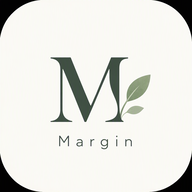
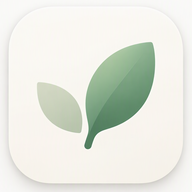
アプリアイコンをLeafデザインに変更

diff --git a/index.html b/index.html
@@ -5,6 +5,8 @@
     <link rel="icon" type="image/svg+xml" href="/favicon.svg" />
    <link rel="apple-touch-icon" href="/pwa-512x512.png" />
 <meta name="theme-color" content="#f5f4ef" />
+/margin/apple-touch-icon.png
+ /margin/favicon-32x32.png
 <meta name="apple-mobile-web-app-title" content="Margin" />
     <meta name="viewport" content="width=device-width, initial-scale=1.0" />
     <title>Margin</title>
